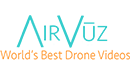
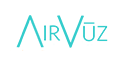
update tag line and title

Changed region(s): [[0.0, 0.6667, 1.0, 0.8]]

diff --git a/config/config.js b/config/config.js
@@ -101,7 +101,7 @@ module.exports = {
         og : {
           description			: "Discover, watch, and share aerial videos captured by cameras from drones, quadcopters, multi-copters, and radio controlled airplanes and helicopters.",
           image						: "http://airvuz.com/assets/img/airvuz_banner.png",
-          title						: "AirVūz – Drone Video Community",
+          title						: "AirVūz – World’s Best Drone Videos",
           type						: "website",
           updated_time		: "1458850844571",
           url							: "http://www.airvuz.com"

diff --git a/app/views/model/indexModel.js b/app/views/model/indexModel.js
@@ -59,7 +59,7 @@ IndexModel.prototype.getData = function(params) {
 		
 		params.data.index.head				= {};
 		params.data.index.head.og			= config.view.index.og;
-		params.data.index.head.title	= "AirVūz – Drone Video Community";
+		params.data.index.head.title	= "AirVūz – World’s Best Drone Videos";
 		params.data.index.viewName		= "index";
 
 		params.data.s3Bucket 					= amazonConfig.OUTPUT_URL;

diff --git a/client/styles/index.css b/client/styles/index.css
@@ -314,6 +314,14 @@ body.modal-open {
   height: 75px;
 }
 
+#header .tag-line {
+  position: absolute;
+  bottom: 7px;
+  left: 90px;
+  font-size: 8px;
+  color: #f48a4a;
+}
+
 .header-user {
   height: 100%;
 }
@@ -1217,6 +1225,7 @@ End user profile CSS
 #header .airvuz-logo {
   display: none;
 }
+
 
 /*
 Video Player Slick theme
